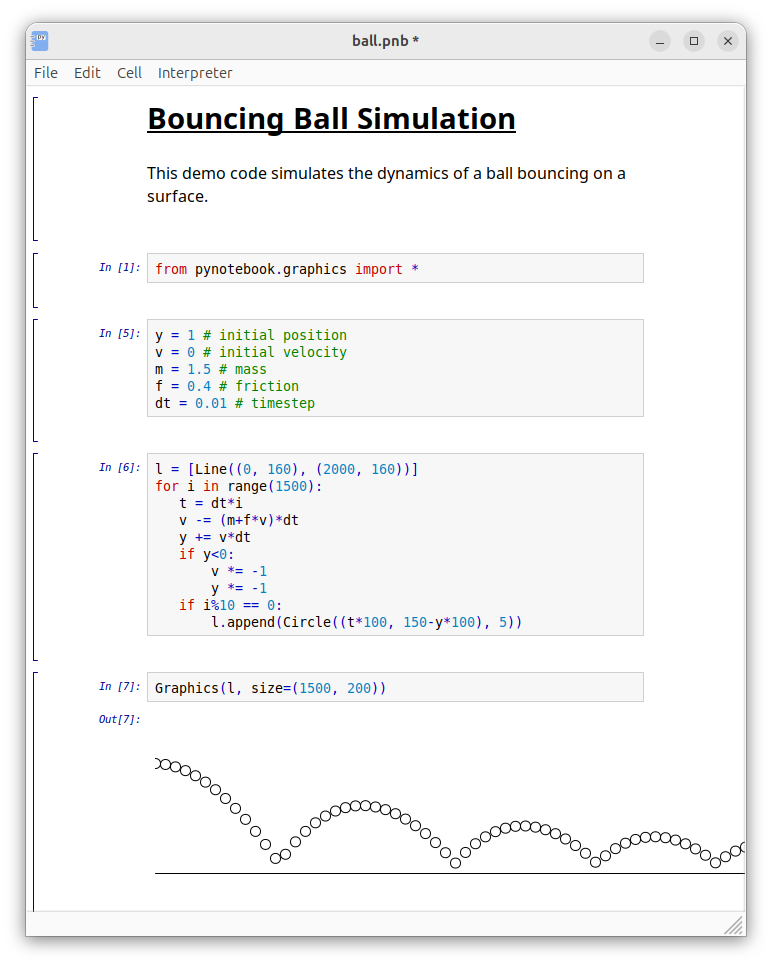
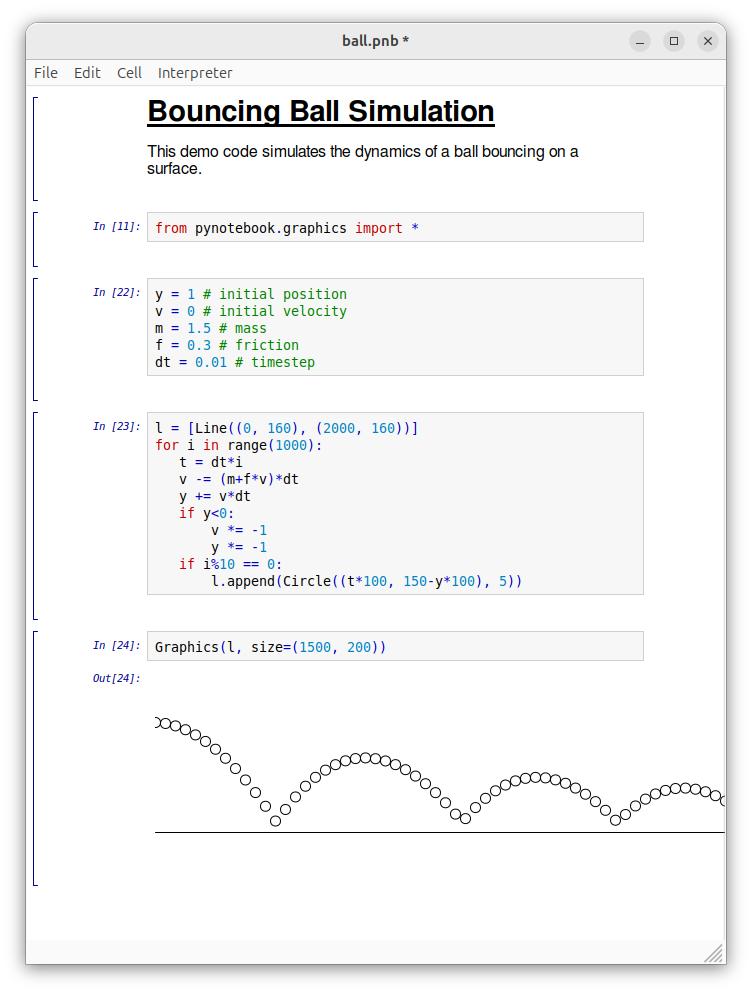
Update READMEs and screenshots, fix empty 3D plot in demo

diff --git a/demo/plot_demo.py b/demo/plot_demo.py
@@ -76,9 +76,9 @@ cnt = contour(Z, cmap=cm.RdBu, vmin=abs(Z).min(), vmax=abs(Z).max(), extent=[0, 
 output(fig)
 
 [In]:
-from mpl_toolkits.mplot3d import axes3d, Axes3D
+from mpl_toolkits.mplot3d import axes3d
 fig = plt.figure()
-ax = Axes3D(fig)
+ax = fig.add_subplot(projection='3d')
 X, Y, Z = axes3d.get_test_data(0.05)
 cset = ax.contour(X, Y, Z, 16, extend3d=True)
 ax.clabel(cset, fontsize=9, inline=1)

diff --git a/README.md b/README.md
@@ -1,8 +1,7 @@
 
 # pynotebook
 
-![Screenshot](https://codeberg.org/chrisecker/pynotebook/raw/branch/master/screenshots/matplotlib.png)
-
+![Screenshot](https://codeberg.org/chrisecker/pynotebook/raw/branch/master/screenshots/polar.png)
 
 [More screenshots](https://codeberg.org/chrisecker/pynotebook/src/branch/master/screenshots/)
 
@@ -18,25 +17,42 @@ existing wxPython applications. While Python is its native language,
 the library is flexible enough to support other scripting languages as
 well.
 
+## Features
+
+- Code cells with syntax highlighting, completion and help; the output
+  appears right below the cell
+- Text cells with formatted text for notes and documentation
+- Graphics in the document: matplotlib figures, bitmaps and built-in
+  vector graphics (`pynotebook.graphics`)
+- A notebook is a single wx widget, easy to embed
+- Other languages can be plugged in as clients; `demo/rnotebook.py`
+  shows R (needs rpy2)
+- Safe, readable file format: notebooks are saved as JSON, and opening
+  a file never runs code
+- Few dependencies: wxPython, and cerealizer to read files of older
+  versions; BSD license
+
+## Embedding
+
+    import wx
+    from pynotebook.nbview import NBView
+
+    app = wx.App()
+    frame = wx.Frame(None, title='My notebook', size=(800, 600))
+    view = NBView(frame)   # or NBView(frame, filename='example.pnb')
+    frame.Show()
+    app.MainLoop()
+
+`view.save(filename)` writes the notebook to a file.
+
 Applications using the Pynotebook library include:
 
-- [pnb application](https://pypi.org/project/pnb/) – a Python notebook application  
+- [pnb](https://pypi.org/project/pnb/) – a Python notebook application
 
-## Run demo (no installation)
+## Run demo (no installation, needs matplotlib)
 
     cd demo
     python plot_demo.py
-
-## Testing
-
-Most files have builtin tests. They can be started by:
-
-    python runtests.py pynotebook/nbtexels.py
-  
-Some files also have builtin demos:
-
-    python runtests.py pynotebook/nbview.py demo_00
-
 
 ## Installation
 
@@ -52,8 +68,20 @@ If you also want to install pnb:
 
     pip install pnb
 
+## Testing
+
+Most files have builtin tests. All of them run with:
+
+    python all_tests.py
+
+The tests of a single file:
+
+    python runtests.py pynotebook/nbtexels.py
+
+Some files also have builtin demos:
+
+    python runtests.py pynotebook/nbview.py demo_00
+
 ## Links
 
 - [Sources on codeberg](https://codeberg.org/chrisecker/pynotebook)
-
-

diff --git a/pnb/README.md b/pnb/README.md
@@ -17,22 +17,40 @@ ideas.
 
 Unlike heavier applications like Jupyter or Spyder, pnb is
 exceptionally lightweight and easy to install. It has only two
-dependencies: wxPython and pynotebook, the latter of which requires no
-further external packages itself.
+dependencies: wxPython and pynotebook, which itself only needs the
+small pure-Python package cerealizer to read files of older versions.
 
 
 Features
 --------
 
-Most notable features are:
+- Code cells: run with Shift+Return, the output appears right below
+- Syntax highlighting, completion (Tab) and help on the word at the
+  cursor (Ctrl-H)
+- Text cells with formatted text for notes and documentation
+- Plots via matplotlib and built-in vector graphics, right in the
+  document
+- Safe, readable file format: notebooks are saved as JSON, and opening
+  a file never runs code
+- BSD license
 
-- syntax highlighting
-- command completion (tab-key)
-- object introspection (ctrl-h)
-- built-in vector graphics
-- plotting via matplotlib
-- BSD-license
 
+Quick start
+-----------
+
+Start `pnb`, type some Python code and press Shift+Return:
+
+| Key | Action |
+|---|---|
+| Shift+Return | Execute the cell |
+| Tab | Complete |
+| Ctrl-H | Help on the word at the cursor |
+| Ctrl-T | Insert a text cell |
+| Ctrl-B | Split the cell at the cursor |
+| Ctrl-I / Ctrl-U | Indent / dedent |
+
+Examples: `demo/*.pnb` in the sources; the Linux packages install them
+to `/usr/share/doc/pnb/examples/`.
 
 
 Installation
@@ -63,10 +81,10 @@ Desktop integration after a pip installation (pnb must be on the PATH):
     cp pnb.png ~/.local/share/icons/hicolor/96x96/apps/
 
 
-Testing
--------
+Run without installing
+----------------------
 
-To start pnb without installing type:
+In this folder:
 
     python runtests.py pnb
 
@@ -75,6 +93,3 @@ Links
 -----
 - [pynotebook module](https://pypi.org/project/pynotebook/)
 - [source code](https://codeberg.org/chrisecker/pynotebook/src/branch/master/pnb)
-
-
-
